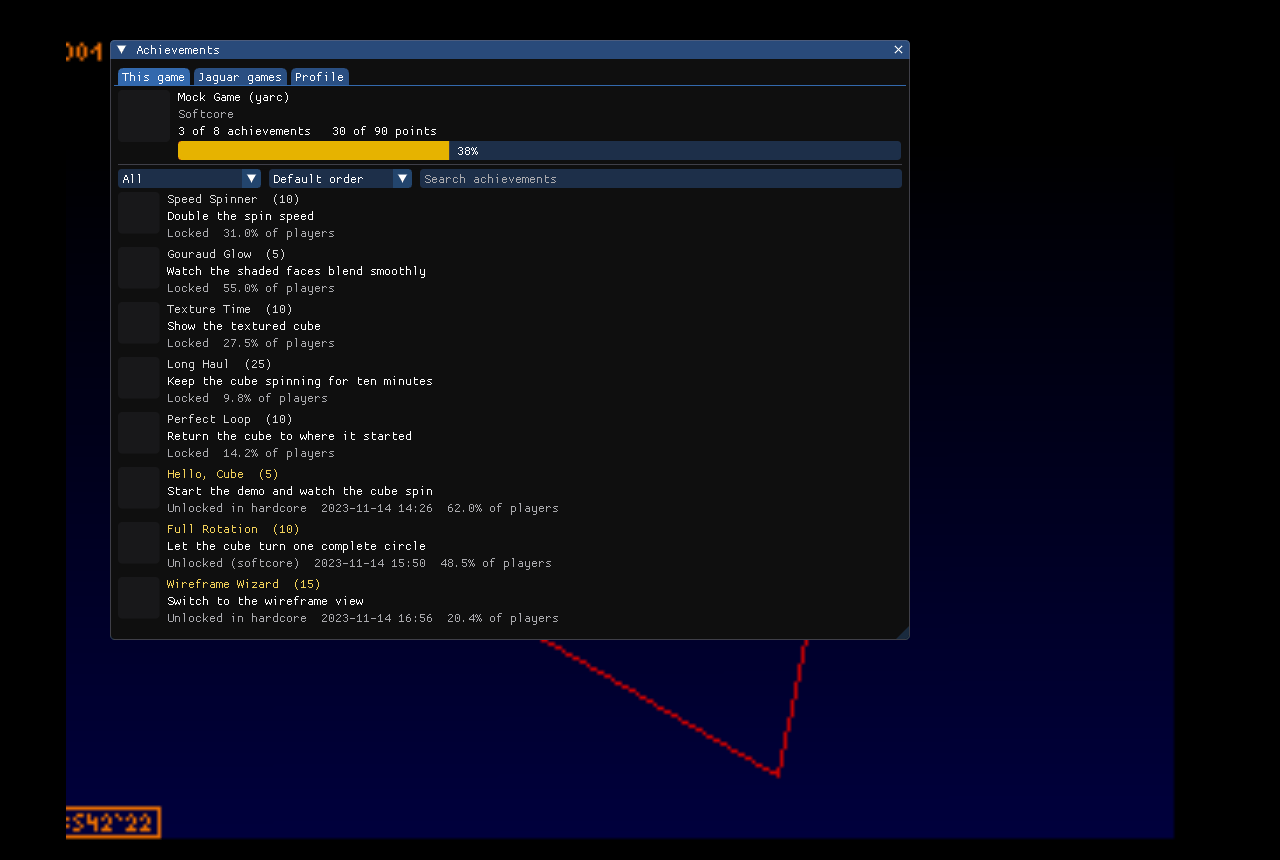
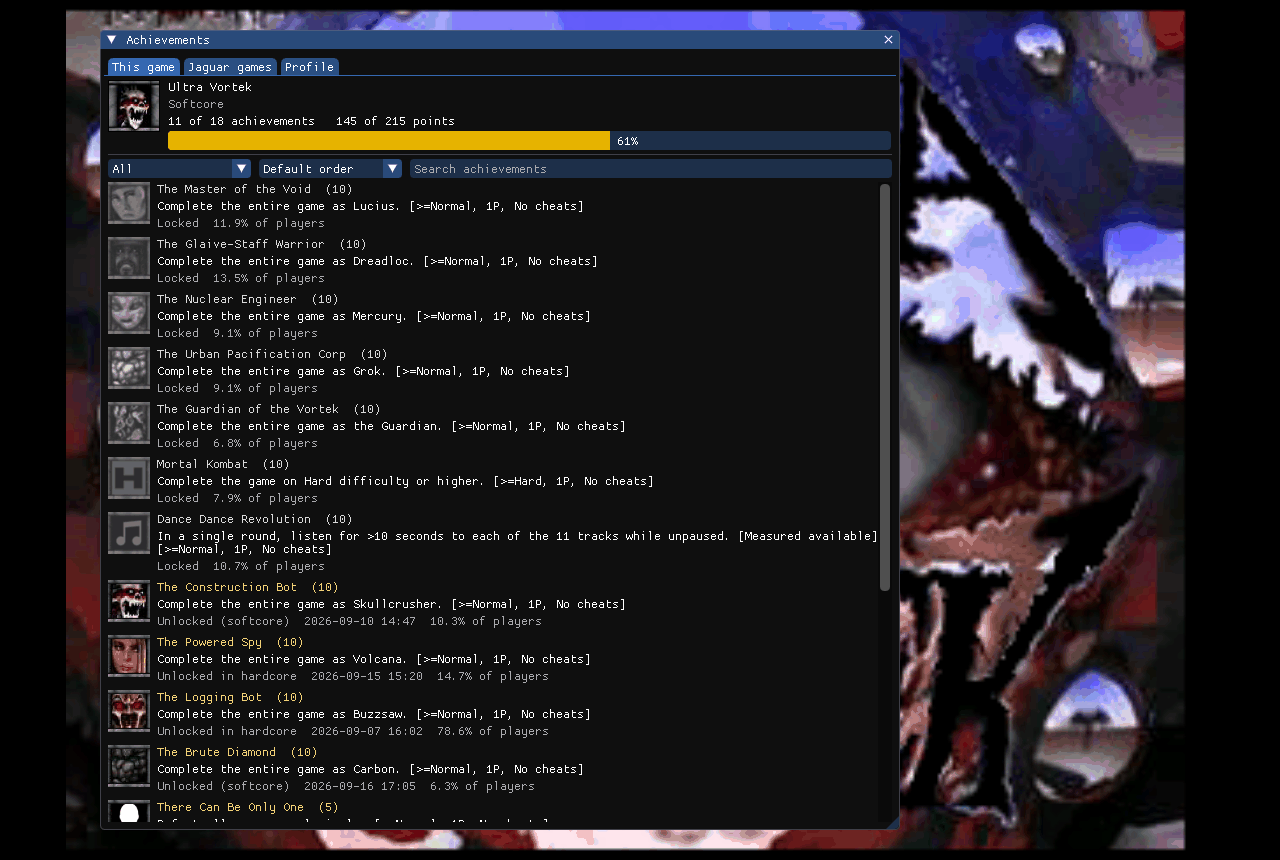
docs(site): refresh the app gallery (RetroAchievements art, Jaguar CD shots, gdb recipe, even grids) (#959)
* docs(site): refresh the app gallery: RetroAchievements art, Jaguar CD shots, gdb recipe, tighter layout

RetroAchievements: the grey badge squares came from the mock session itself,
not from a rendering bug. A --ra-mock session never uses the network
(updateImageNetwork() forces it off) and the image cache only reads
<data-dir>/ra-cache/, so a fresh capture data dir had nothing to draw. The shots
are retaken with that cache seeded from the public media.retroachievements.org
images of a real Jaguar set (Ultra Vortek, 18 achievements, in the demo
library), and a mock fixture dir holding the real public achievement list and
Jaguar / Jaguar CD game lists. Account, progress and unlock dates are invented;
no real account is involved.

Jaguar CD: discs boot and run in the current app, and box art now downloads
for the CD tab, so app_library_cd.png is retaken and a Blue Lightning CD
gameplay card is added.

Galleries now hold an even number of cards (Playing 8, Look & feel 8,
RetroAchievements & Discord 4 after dropping the empty-looking Profile card,
Developer tools 8) and the grid is fixed at 4 columns (2 below 60rem, 1 below
34rem) in a marked "/* app page */" block at the end of style.css, with
tighter gaps and captions and two-column bullet intros. Developer tools gains
the gdb recipe and a link to docs/gdb-stub-guide.md.

* docs(site): scope the app-page h3 spacing, fix CD art and BIOS wording, README alt text
[…]

diff --git a/site/pages/app.html b/site/pages/app.html
@@ -117,9 +117,9 @@
   <h2>Screenshot gallery</h2>
   <div class="win-body">
     <p>
-      Click a picture to enlarge it; Esc closes the viewer and the arrow keys
-      move between pictures. The pictures are real captures of the app with a
-      demo library (no personal data, no signed-in account).
+      Click a picture to enlarge it (Esc closes, arrow keys move on). All
+      real captures of the app with a demo library: no personal data, no
+      signed-in account.
     </p>
 
     <h3 id="library">Library &amp; artwork</h3>
@@ -127,7 +127,7 @@
       <li>Your games on the home screen, in Cartridges, Jaguar CD and BIOS &amp; system tabs, with search, filters and a size slider.</li>
       <li>Identified by CRC32 against the libretro database (No-Intro, Redump); box art comes from libretro-thumbnails on demand and is cached.</li>
       <li>Favorites and Recently played, as tabs, strips or both; a Save states tab lists every game with states.</li>
-      <li>Covers for Jaguar CD: a readable title card, or your own PNG.</li>
+      <li>Jaguar CD discs get box art too, from the project&rsquo;s own thumbnail mirror (libretro-thumbnails has none for the system); a disc without art gets a readable title card, or your own PNG.</li>
     </ul>
     <div class="gallery">
       <figure class="gal-card">
@@ -138,9 +138,9 @@
       </figure>
       <figure class="gal-card">
         <a class="gal-link" href="assets/app_library_cd.png" aria-label="Enlarge: Jaguar CD">
-          <img src="assets/app_library_cd.png" width="1280" height="860" loading="lazy" alt="The Jaguar CD tab: a grid of disc tiles, each a coloured title card with the game name, and a note that libretro-thumbnails has no Jaguar CD art yet.">
+          <img src="assets/app_library_cd.png" width="1280" height="860" loading="lazy" alt="The Jaguar CD tab: a grid of thirteen disc tiles with Jaguar CD box art (Baldies, Battle Morph, Blue Lightning, BrainDead 13, Dragon&#x27;s Lair, Highlander, Hover Strike, Iron Soldier 2, Myst, Primal Rage, Space Ace, Vid Grid, World Tour Racing), each with a CD badge and the game name.">
         </a>
-        <figcaption><strong>Jaguar CD</strong> <span class="gal-cap">Discs without upstream art get a readable title card; set your own cover with a PNG.</span></figcaption>
+        <figcaption><strong>Jaguar CD</strong> <span class="gal-cap">Thirteen discs with box art from the project&rsquo;s thumbnail mirror; set your own cover with a PNG for any that lack it.</span></figcaption>
       </figure>
       <figure class="gal-card">
         <a class="gal-link" href="assets/app_library_states.png" aria-label="Enlarge: Save states tab">
@@ -207,6 +207,12 @@
         </a>
         <figcaption><strong>A game running</strong> <span class="gal-cap">Skyhammer, with the picture scaled to the window.</span></figcaption>
       </figure>
+      <figure class="gal-card">
+        <a class="gal-link" href="assets/app_cd_gameplay.png" aria-label="Enlarge: A Jaguar CD game running">
+          <img src="assets/app_cd_gameplay.png" width="1280" height="860" loading="lazy" alt="Blue Lightning running from a Jaguar CD image: a jet fighter seen from behind, flying low over a layer of clouds under a pale blue sky.">
+        </a>
+        <figcaption><strong>A Jaguar CD game</strong> <span class="gal-cap">Blue Lightning, started from its .cue file, in flight. No BIOS file needed.</span></figcaption>
+      </figure>
     </div>
 
     <h3 id="look">Look &amp; feel</h3>
@@ -244,6 +250,12 @@
           <img src="assets/app_settings_video.png" width="1280" height="860" loading="lazy" alt="Settings, Video tab: integer scaling, smooth filter, stretch, aspect ratio, VSync and fullscreen options, and a Shader section with the crt-gdv-mini-ultra-trinitron preset selected above a list of 500 built-in presets.">
         </a>
         <figcaption><strong>Video settings</strong> <span class="gal-cap">Integer scaling, filter, aspect ratio and the shader list with its CRT presets.</span></figcaption>
+      </figure>
+      <figure class="gal-card">
+        <a class="gal-link" href="assets/app_game_lottes.png" aria-label="Enlarge: Another shader preset">
+          <img src="assets/app_game_lottes.png" width="1280" height="860" loading="lazy" alt="The Rayman title screen through the crt-lottes shader preset: a slightly curved screen with a dark rounded border, visible scanlines and a soft glow around the bright lettering.">
+        </a>
+        <figcaption><strong>Another preset</strong> <span class="gal-cap">crt-lottes on the Rayman title: curved glass, scanlines and glow. Presets are one click in Settings &gt; Video.</span></figcaption>
       </figure>
       <figure class="gal-card">
         <a class="gal-link" href="assets/app_settings_interface.png" aria-label="Enlarge: Interface settings">
@@ -312,21 +324,15 @@
       </figure>
       <figure class="gal-card">
         <a class="gal-link" href="assets/app_ra_achievements.png" aria-label="Enlarge: Achievements, this game">
-          <img src="assets/app_ra_achievements.png" width="1280" height="860" loading="lazy" alt="The Achievements window on the This game tab: a progress bar at 38 percent, 3 of 8 achievements and 30 of 90 points, then a list of achievements with titles, descriptions, points, how many players earned them and whether each is locked or unlocked in hardcore or softcore.">
+          <img src="assets/app_ra_achievements.png" width="1280" height="860" loading="lazy" alt="The Achievements window on the This game tab for Ultra Vortek over its title screen: the game icon, a progress bar at 61 percent, 11 of 18 achievements and 145 of 215 points, then a list with grey locked badges followed by coloured unlocked badges, each with a title, description, points, how many players earned it and the unlock date.">
         </a>
-        <figcaption><strong>This game</strong> <span class="gal-cap">Badges, points, rarity and unlock dates, with filters, sorting and search.</span></figcaption>
+        <figcaption><strong>This game</strong> <span class="gal-cap">Badge art, points, rarity and unlock dates, with filters, sorting and search.</span></figcaption>
       </figure>
       <figure class="gal-card">
         <a class="gal-link" href="assets/app_ra_games.png" aria-label="Enlarge: Achievements, Jaguar games">
-          <img src="assets/app_ra_games.png" width="1280" height="860" loading="lazy" alt="The Achievements window on the Jaguar games tab filtered to In my library: three games with achievement counts, points, progress bars and Play buttons.">
+          <img src="assets/app_ra_games.png" width="1280" height="860" loading="lazy" alt="The Achievements window on the Jaguar games tab filtered to In my library: nine games, cartridges and Jaguar CD discs, each with its icon, achievement count, points, a progress bar and a Play button; the running game shows Playing.">
         </a>
         <figcaption><strong>Jaguar games</strong> <span class="gal-cap">Every Jaguar and Jaguar CD game with achievements, your progress, and Play for those in your library.</span></figcaption>
-      </figure>
-      <figure class="gal-card">
-        <a class="gal-link" href="assets/app_ra_profile.png" aria-label="Enlarge: Achievements, profile">
-          <img src="assets/app_ra_profile.png" width="1280" height="860" loading="lazy" alt="The Achievements window on the Profile tab: a user name with hardcore and softcore points, a Sign out button, the Download pictures option and an Unlocked this session list.">
-        </a>
-        <figcaption><strong>Profile</strong> <span class="gal-cap">Your points, the softcore or hardcore rule in force, and what you unlocked this session.</span></figcaption>
       </figure>
       <figure class="gal-card">
         <a class="gal-link" href="assets/app_settings_discord.png" aria-label="Enlarge: Discord settings">
@@ -336,9 +342,11 @@
       </figure>
     </div>
     <p class="footnote">
-      The RetroAchievements pictures come from the app&rsquo;s built-in mock
-      server (a sample account and sample games), so no real account or
-      network was involved, and Discord was off for its picture.
+      The RetroAchievements pictures use the app&rsquo;s built-in mock server,
+      so no real account or sign-in was involved. It answers with the real,
+      public achievement list and artwork of the games shown (from
+      retroachievements.org and its image host); the account, progress and
+      unlock dates are made up. Discord was off for its picture.
     </p>
 
     <h3 id="devtools">Developer tools</h3>
@@ -346,7 +354,20 @@
       <li>A Tools menu for the game that is running: memory viewer and editor, palette (CLUT) editor, cheat scanner, Object Processor list, blitter log, texture browser and audio scope.</li>
       <li>A CPU debugger with 68000, GPU and DSP tabs: registers, disassembly, breakpoints, step, step over and run to cursor (F9 breaks, F10 steps).</li>
       <li>Writes go to RAM freely; hardware registers need a tick-box, and everything is off under RetroAchievements hardcore. RetroArch is unaffected.</li>
+      <li><strong>gdb:</strong> the core also speaks the GDB remote protocol, so a real <code>gdb</code> can set breakpoints, read memory and registers and step the 68000 (the GPU and DSP via <code>monitor</code> commands). Off by default, loopback only. LLDB can attach but cannot debug the 68000. The <a href="{{REPO}}/blob/develop/docs/gdb-stub-guide.md">GDB remote debugging guide</a> has the rest.</li>
     </ul>
+    <pre><code>$ virtualjaguar --option virtualjaguar_gdb_stub=enabled --option virtualjaguar_gdb_wait=enabled game.jag
+$ gdb -ex 'set endian big' -ex 'target remote 127.0.0.1:2345'
+(gdb) x/3i $pc
+(gdb) stepi</code></pre>
+    <p class="footnote">
+      The first option turns the stub on (Settings, search &ldquo;gdb&rdquo;,
+      does the same; reopen the game); the second halts the 68000 before its
+      first instruction so gdb attaches at the start. Use a gdb with m68k
+      support (Homebrew <code>gdb</code>; <code>gdb-multiarch</code> on Debian
+      and Ubuntu); <code>set endian big</code> is needed, or every word reads
+      byte-swapped.
+    </p>
     <div class="gallery">
       <figure class="gal-card">
         <a class="gal-link" href="assets/app_dbg_cpu.png" aria-label="Enlarge: CPU debugger">

diff --git a/site/style.css b/site/style.css
@@ -1009,3 +1009,27 @@ dialog.lightbox::backdrop { background: rgba(0, 0, 0, 0.78); }
   a { color: #000; text-decoration: underline; }
   main { max-width: none; }
 }
+
+/* app page */
+/* The screenshot galleries (only app.html uses .gallery): always 4 columns, 2 on
+ * narrower screens, never 3 -- every gallery holds an even number of cards, so
+ * the last row is never ragged.  Tighter gaps and captions mean less scrolling. */
+.gallery {
+  grid-template-columns: repeat(4, minmax(0, 1fr));
+  gap: 0.7rem;
+  margin: 0.8rem 0 1.2rem;
+}
+.gal-link { padding: 4px; }
+.gal-card figcaption { padding: 0.35rem 0.5rem 0.45rem; font-size: 0.78rem; line-height: 1.35; }
+.gal-card figcaption strong { font-size: 0.82rem; }
+#gallery > .win-body > h3 { margin-top: 1.3rem; }
+/* The short bullet intros above each gallery run in two columns on wide screens. */
+#gallery .win-body > ul { max-width: none; columns: 2; column-gap: 2rem; margin-bottom: 0.7rem; }
+#gallery .win-body > ul > li { break-inside: avoid; }
+@media (max-width: 60rem) {
+  .gallery { grid-template-columns: repeat(2, minmax(0, 1fr)); }
+  #gallery .win-body > ul { columns: 1; max-width: 46rem; }
+}
+@media (max-width: 34rem) {
+  .gallery { grid-template-columns: minmax(0, 1fr); }
+}

diff --git a/README.md b/README.md
@@ -49,7 +49,7 @@ A standalone front end for the same core, in `app/`: SDL3 for window, audio and 
 </p>
 <p>
   <img src="site/assets/app_theme_jaguar_red.png" width="49%" alt="The library in a custom dark theme named Jaguar Red, with a red accent">
-  <img src="site/assets/app_ra_achievements.png" width="49%" alt="The Achievements window listing a sample game's achievements with points, rarity and unlock dates (a mock RetroAchievements account)">
+  <img src="site/assets/app_ra_achievements.png" width="49%" alt="The Achievements window for Ultra Vortek: grey locked and coloured unlocked badges, points, rarity and unlock dates (a mock RetroAchievements account)">
 </p>
 
 - **Library:** your games in Cartridges, Jaguar CD, Favorites, Recently played, Save states and BIOS & system tabs; identified by CRC32 (No-Intro, Redump), box art from [libretro-thumbnails](https://github.com/libretro-thumbnails/Atari_-_Jaguar) on demand, title cards or your own cover for discs.
